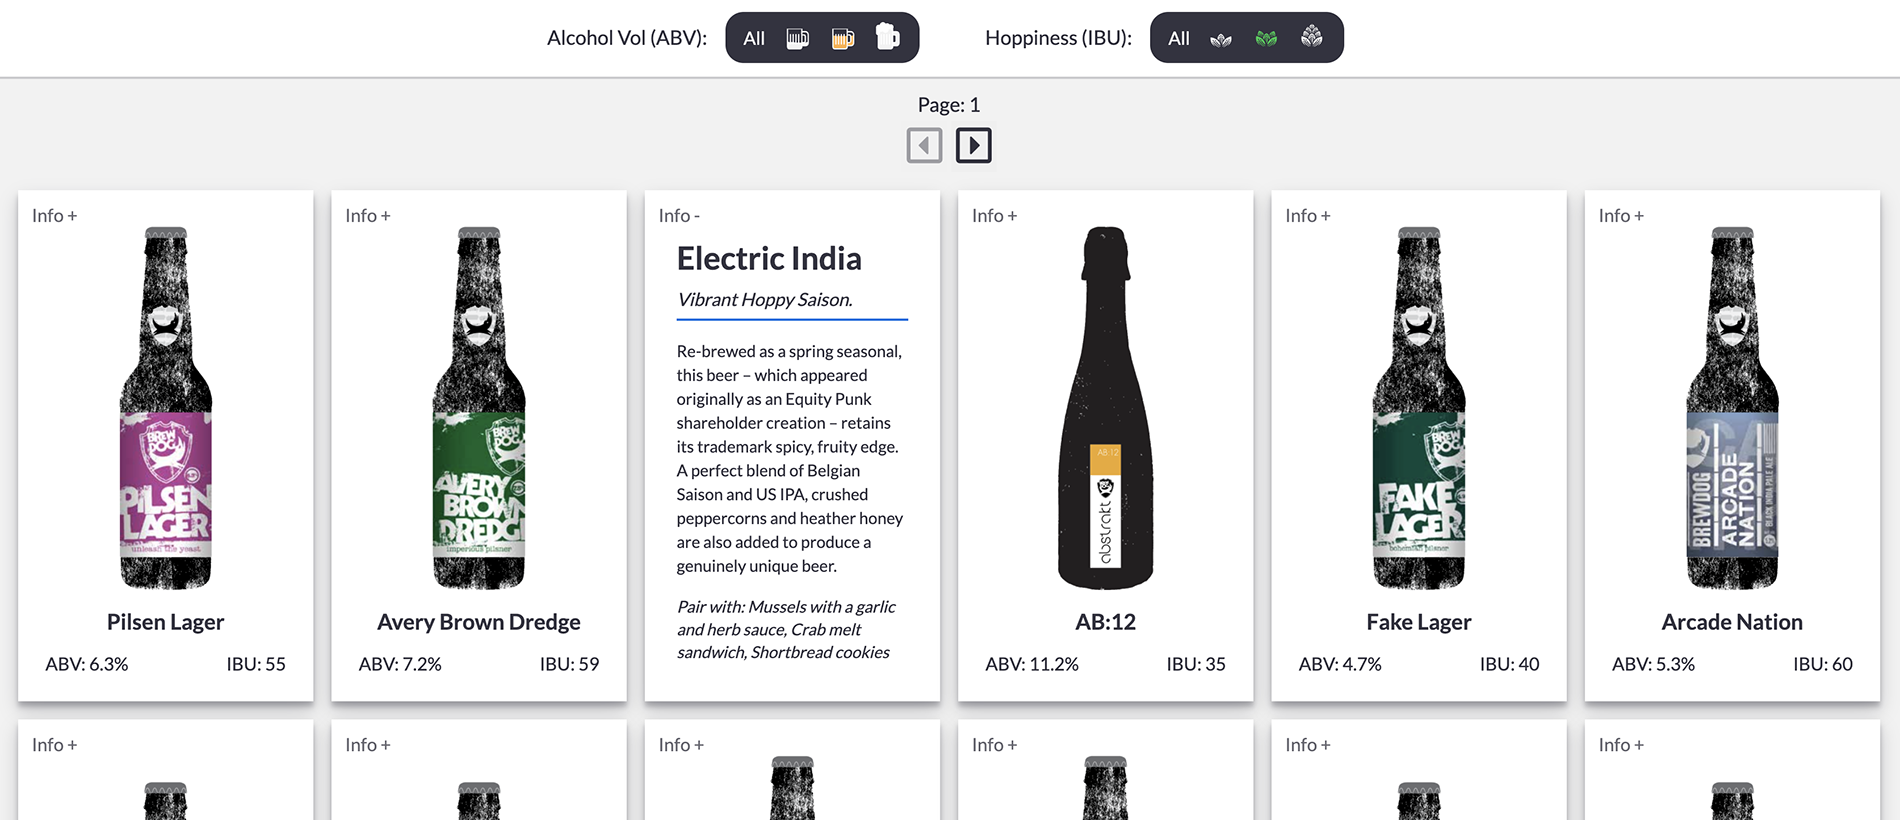
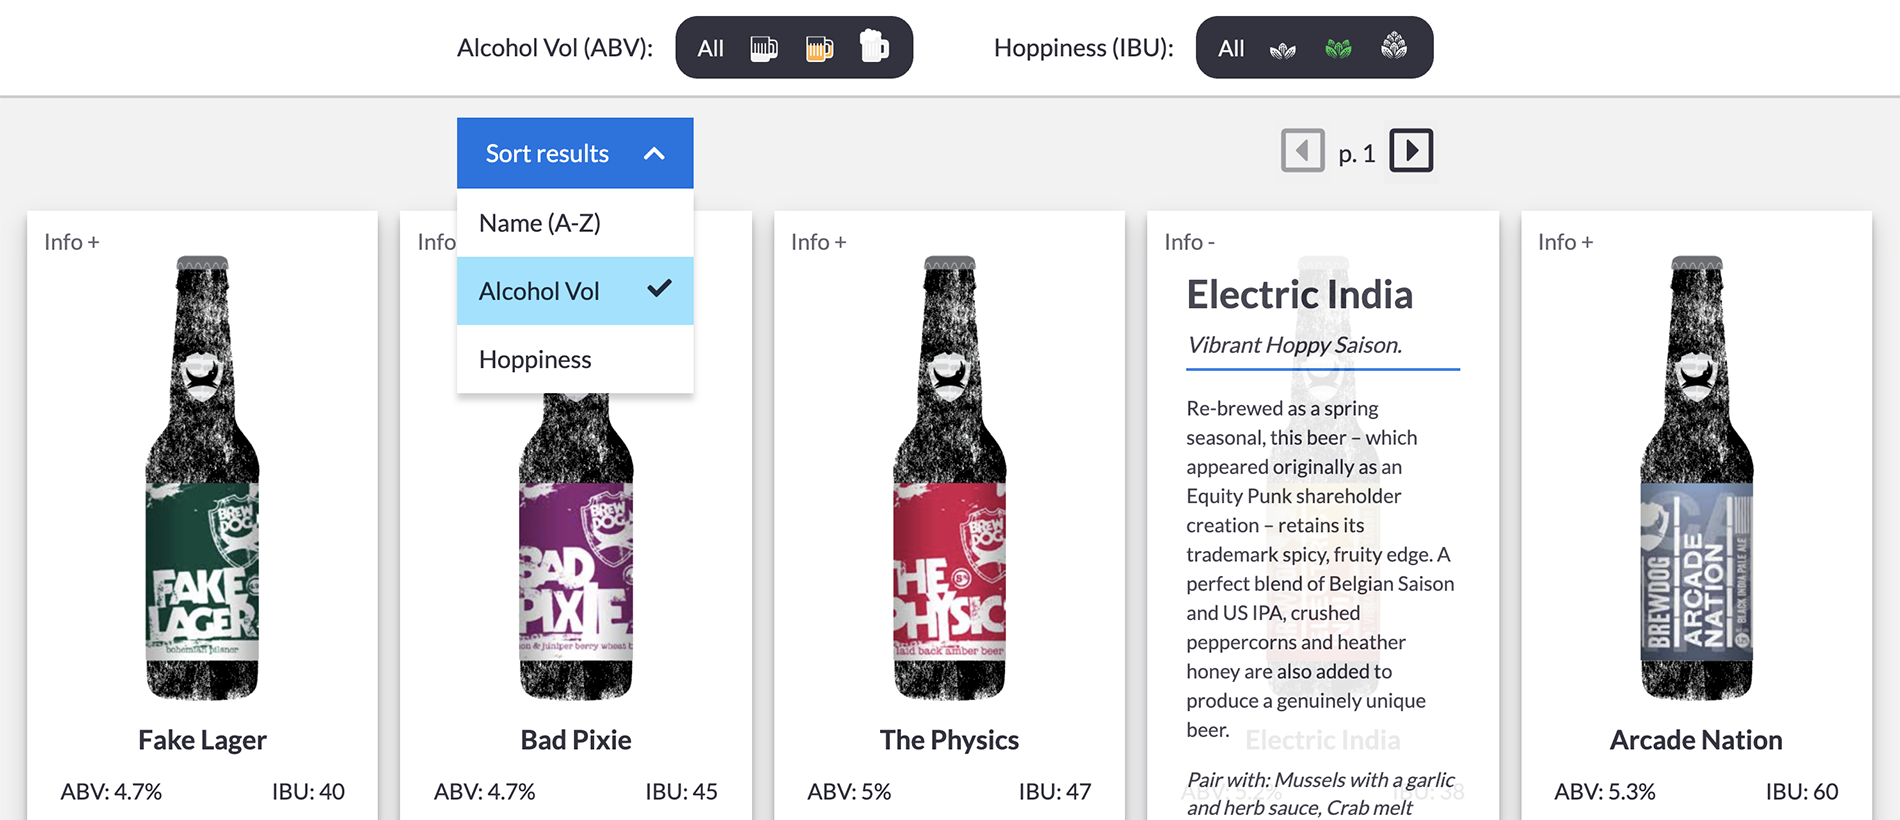
Added new images to portfpolio pages. Deleted unused images.

diff --git a/portfolio/bleary-eyed.html b/portfolio/bleary-eyed.html
@@ -69,13 +69,16 @@
       <div class="carousel--track-container">
         <ul class="carousel--track">
           <li class="carousel--slide current-slide">
-            <img src="../img/my-work/bleary-eyed/bleary-eyed-blur-sgomez.png" alt="Cropped view of Bleary-eyed quiz" class="carousel--image">
+            <img src="../img/my-work/bleary-eyed/bleary-eyed-sml-blur.png" alt="Cropped view of Bleary-eyed quiz" class="carousel--image-sml is-hidden">
+            <img src="../img/my-work/bleary-eyed/bleary-eyed-wide-blur.png" alt="Cropped view of Bleary-eyed quiz" class="carousel--image-lrg">
           </li>
           <li class="carousel--slide">
-            <img src="../img/my-work/bleary-eyed/bleary-eyed-clear-sgomez.png" alt="Cropped view of Bleary-eyed quiz" class="carousel--image">
+            <img src="../img/my-work/bleary-eyed/bleary-eyed-sml-clear.png" alt="Cropped view of Bleary-eyed quiz" class="carousel--image-sml is-hidden">
+            <img src="../img/my-work/bleary-eyed/bleary-eyed-wide-clear.png" alt="Cropped view of Bleary-eyed quiz" class="carousel--image-lrg">
           </li>
           <li class="carousel--slide">
-            <img src="../img/my-work/bleary-eyed/bleary-eyed-wide-score.png" alt="Cropped view of Bleary-eyed quiz score page" class="carousel--image">
+            <img src="../img/my-work/bleary-eyed/bleary-eyed-sml-score.png" alt="Cropped view of Bleary-eyed quiz score page" class="carousel--image-sml is-hidden">
+            <img src="../img/my-work/bleary-eyed/bleary-eyed-wide-score.png" alt="Cropped view of Bleary-eyed quiz score page" class="carousel--image-lrg">
           </li>
         </ul>
       </div>
@@ -94,7 +97,7 @@
         <li>A single-page application, built using HTML, CSS, and vanilla JavaScript.</li>
         <li>Celebrity order and multiple choice names are displayed at random.
         </li>
-        <li>Responsive design that utilizes CSS Flexbox and media queries to properly display quiz across devices.</li>
+        <li>Responsive design that utilizes CSS Flexbox and media queries to properly display quiz across different devices.</li>
         <li>The blurred effect is acheived using the CSS filter property and JavaScript.
         </li>
         <li>The social media sharing feature in final score modal utilizes AddThis.</li>

diff --git a/portfolio/punk-api.html b/portfolio/punk-api.html
@@ -69,10 +69,12 @@
       <div class="carousel--track-container">
         <ul class="carousel--track">
           <li class="carousel--slide current-slide">
-            <img src="../img/my-work/punk-api/punk-api-wide.png" alt="Cropped view of Punk API beer filter app" class="carousel--image">
+            <img src="../img/my-work/punk-api/punk-api-sml.png" alt="Cropped view of Punk API beer filter app" class="carousel--image-sml is-hidden">
+            <img src="../img/my-work/punk-api/punk-api-wide.png" alt="Cropped view of Punk API beer filter app" class="carousel--image-lrg">
           </li>
           <li class="carousel--slide">
-            <img src="../img/my-work/punk-api/punk-api-wide-info.png" alt="Cropped view of Punk API beer filter app" class="carousel--image">
+            <img src="../img/my-work/punk-api/punk-api-sml-info.png" alt="Cropped view of Punk API beer filter app" class="carousel--image-sml is-hidden">
+            <img src="../img/my-work/punk-api/punk-api-wide-info.png" alt="Cropped view of Punk API beer filter app" class="carousel--image-lrg">
           </li>
         </ul>
       </div>
@@ -89,8 +91,8 @@
       <ul class="features-list">
         <li>A single-page application, built using HTML, CSS, vanilla JavaScript, and the <a href="https://punkapi.com/" target="blank" class="light-link">Punk API</a>.</li>
         <li>Modifiable SVG icons are used to represent levels of hoppiness and alcohol volume.</li>
-        <li>Responsive design that utilizes CSS Grid, CSS Flexbox, and media queries to properly display results across devices.</li>
-        <li>Results can be sorted by alphabetically by beer name.</li>
+        <li>Responsive design that utilizes CSS Grid, CSS Flexbox, and media queries to properly display application across different devices.</li>
+        <li>Using JavaScript, results can be sorted by beer name, alcohol volume, and hoppiness.</li>
       </ul>
     </div>
     <div class="portfolio-item--link">

diff --git a/portfolio/hexspire.html b/portfolio/hexspire.html
@@ -62,7 +62,7 @@
   <section class="portfolio-item--individual">
     <div class="portfolio-item--description">
       <h4>Description</h4>
-      <p>Using the Hexbot API, <strong>HexSpire</strong> displays a selection of random colors. The user can view a color's hex value, add colors to the favorite section, and copy the hex color codes from the favorites to the clipboard for additional use. The color grid can be refreshed with a new set of random colors and sorted by hue.</p>
+      <p>Using the Hexbot API, <strong>HexSpire</strong> displays a selection of random colors. The user can view a color's hex value, add colors to the favorite section, and copy the hex color codes from the favorites to the clipboard for additional use. The color grid can be sorted by hue and refreshed to display a new set of random colors.</p>
     </div>
     <div class="carousel">
       <button class="carousel--button carousel--button-left is-hidden">&#10094;</button>

diff --git a/index.html b/index.html
@@ -52,7 +52,7 @@
     
       <div class="service">
         <h3>Design</h3>
-        <p>I have an extensive background in fine art, including an M.F.A. in Two-Dimensional Studies. I am versed in design principles and color theory. This knowledge translates to a thorough understanding of the fundamentals of UI design, such as visual hierarchy, scale, contrast, white space, and color usage.  </p>
+        <p>I have an extensive background in fine art, including an M.F.A. in Two-Dimensional Studies. I am versed in design principles and color theory. This knowledge translates to a thorough understanding of the fundamentals of UI design, including visual hierarchy, scale, contrast, white space, and color.  </p>
       </div> <!-- / service -->
     </div> <!-- / services -->
 

diff --git a/css/index.css b/css/index.css
@@ -31,7 +31,7 @@ ol[class] {
   --clr-dark: #303030;
   --clr-dark-trans: rgba(48, 48, 48, 0.5);
   --clr-dark-hover: rgba(48, 48, 48, 0.7);
-  --clr-link: #007a99;
+  --clr-link: #006999;
   --clr-accent: #77e4ff;
   --clr-accent-hover: rgba(108, 224, 253, 0.8);
 
